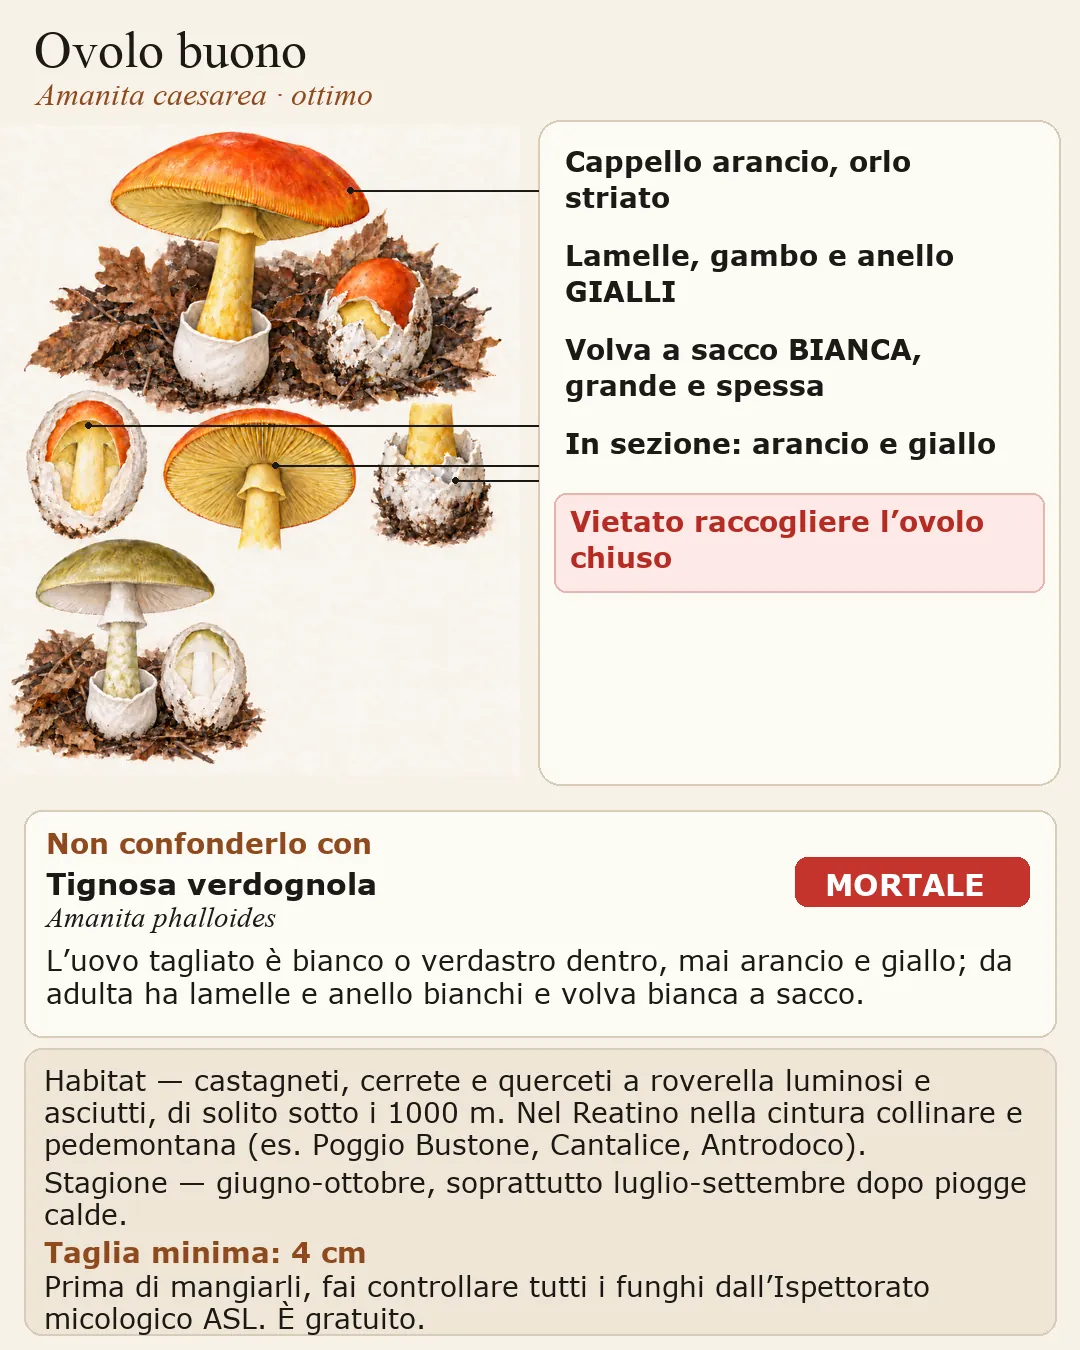
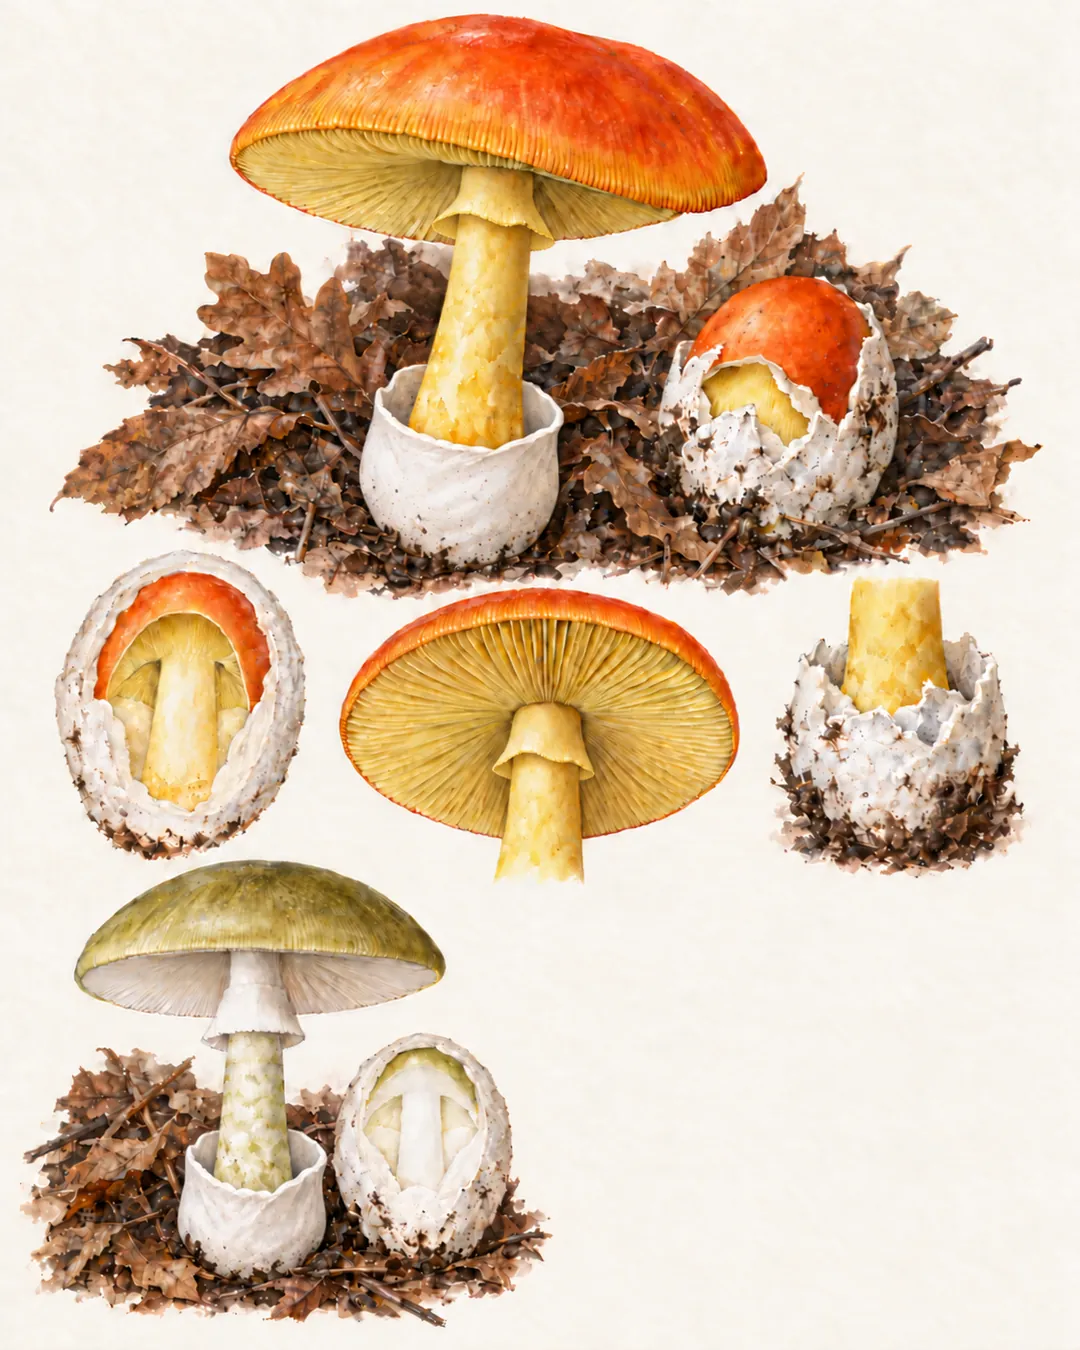
Render caesarea infographic text in HTML

diff --git a/js/speciescard.js b/js/speciescard.js
@@ -12,7 +12,7 @@ const MONTHS = ['G', 'F', 'M', 'A', 'M', 'G', 'L', 'A', 'S', 'O', 'N', 'D'];
 const MONTHS_LONG = ['gennaio', 'febbraio', 'marzo', 'aprile', 'maggio', 'giugno', 'luglio', 'agosto', 'settembre', 'ottobre', 'novembre', 'dicembre'];
 const TOX = { mortale: 'tox-deadly', tossico: 'tox-toxic', 'non commestibile': 'tox-no', commestibile: 'tox-ok' };
 
-let PREP = null, ID = null, MEDIA = null, ASSET = (f) => f, EMBED_3D = true, INFO = {}, WHERE = () => '', TRAITS = {}, FOOTER = '';
+let PREP = null, ID = null, MEDIA = null, ASSET = (f) => f, EMBED_3D = true, INFO = {}, WHERE = () => '', TRAITS = {}, FOOTER = '', INFO_OBSERVER = null;
 
 export function initSpeciesCards({ idData, media, assetUrl, allow3d = true, infographics = {}, whereSection, traits, footer, prep }) {
   PREP = prep || null;
@@ -131,6 +131,52 @@ function checks(id) {
   const c = TRAITS[id]?.check_before_picking || [];
   return c.length ? `<h3>Prima di raccoglierlo controlla</h3><p class="small muted checks-tip">Spunta mentre guardi il fungo che hai in mano.</p><ul class="checks">${c.map((x) => `<li role="checkbox" aria-checked="false" tabindex="0">${esc(x)}</li>`).join('')}</ul>` : '';
 }
+
+function infographicDetails(c) {
+  if (!c) return '';
+  const look = c.lookalike;
+  const labels = (c.labels || []).map((x) => `<li>${esc(x)}</li>`).join('');
+  return `<div class="sp-info-html">
+    <div class="sp-info-heading"><h4>${esc(c.title || '')}</h4><p class="sp-info-latin"><i>${esc(c.latin || '')}</i>${c.quality ? ` · ${esc(c.quality)}` : ''}</p></div>
+    ${labels ? `<ul class="sp-info-mobile-labels">${labels}</ul>` : ''}
+    ${c.warning ? `<p class="sp-info-mobile-warning">${esc(c.warning)}</p>` : ''}
+    ${look ? `<section class="sp-info-look"><h5>${esc(look.heading || 'Non confonderlo con')}</h5><p><span class="tox tox-mortale">${esc(look.toxicity || '')}</span> <b>${esc(look.name || '')}</b> <i>${esc(look.latin || '')}</i></p><p>${esc(look.difference || '')}</p></section>` : ''}
+    <div class="sp-info-facts">
+      ${c.habitat ? `<p><b>Habitat:</b> ${esc(c.habitat)}</p>` : ''}
+      ${c.season ? `<p><b>Stagione:</b> ${esc(c.season)}</p>` : ''}
+      ${c.minimum ? `<p class="sp-info-minimum"><b>${esc(c.minimum)}</b></p>` : ''}
+      ${c.asl ? `<p class="sp-info-asl">${esc(c.asl)}</p>` : ''}
+    </div>
+  </div>`;
+}
+
+function infographicOverlay(c) {
+  if (!c) return '';
+  const labels = (c.labels || []).map((x) => `<li>${esc(x)}</li>`).join('');
+  const targets = JSON.stringify(c.targets || []);
+  return `<svg class="sp-info-leaders" viewBox="0 0 100 100" preserveAspectRatio="none" aria-hidden="true"></svg>
+    <aside class="sp-info-overlay" aria-label="Etichette dell’illustrazione">
+      <h4>${esc(c.title || '')}</h4><p class="sp-info-latin"><i>${esc(c.latin || '')}</i>${c.quality ? ` · ${esc(c.quality)}` : ''}</p>
+      ${labels ? `<ul class="sp-info-labels" data-targets="${esc(targets)}">${labels}</ul>` : ''}
+      ${c.warning ? `<p class="sp-info-warning">${esc(c.warning)}</p>` : ''}
+    </aside>`;
+}
+
+function infographicCaptionText(c) {
+  if (!c) return '';
+  const lines = [
+    c.latin ? `<span><i>${esc(c.latin)}</i>${c.quality ? ` · ${esc(c.quality)}` : ''}</span>` : '',
+    ...(c.labels || []).map((x) => `<span>${esc(x)}</span>`),
+    c.warning ? `<span class="lb-info-warning">${esc(c.warning)}</span>` : '',
+    c.lookalike ? `<span><b>${esc(c.lookalike.heading)}:</b> ${esc(c.lookalike.name)} · <i>${esc(c.lookalike.latin)}</i> · ${esc(c.lookalike.toxicity)}<br>${esc(c.lookalike.difference)}</span>` : '',
+    c.habitat ? `<span><b>Habitat:</b> ${esc(c.habitat)}</span>` : '',
+    c.season ? `<span><b>Stagione:</b> ${esc(c.season)}</span>` : '',
+    c.minimum ? `<span><b>${esc(c.minimum)}</b></span>` : '',
+    c.asl ? `<span>${esc(c.asl)}</span>` : '',
+  ].filter(Boolean);
+  return `<span class="lb-info-copy">${lines.join('')}</span>`;
+}
+
 function whereToLook(id) {
   const w = TRAITS[id]?.where_to_look;
   if (!w) return '';
@@ -142,6 +188,7 @@ export const whereSummary = (id) => TRAITS[id]?.where_to_look?.summary || '';
 export const criticalRule = (id) => (TRAITS[id]?.field_rules || []).find((r) => r.severity === 'critico')?.text || '';
 
 export function renderSpeciesDetail(body, id) {
+  INFO_OBSERVER?.disconnect(); INFO_OBSERVER = null;
   const sp = SPECIES.find((s) => s.id === id);
   if (!sp) { body.innerHTML = '<p class="muted">Specie non trovata.</p>'; return; }
   const d = ID?.species?.[id] || {};
@@ -177,7 +224,7 @@ export function renderSpeciesDetail(body, id) {
     ${kitchen(id)}
     ${whereToLook(id)}
     ${lookalikes(d)}
-    ${INFO[id]?.file ? `<h3>Infografica</h3><button type="button" class="zoomable sp-info" data-info="1" aria-label="Apri l'infografica"><img src="${ASSET(INFO[id].file)}" alt="Infografica di riconoscimento: ${esc(sp.name)}" loading="lazy"><span class="zoom-ic" aria-hidden="true">⤢</span></button>` : ''}
+    ${INFO[id]?.file ? `<h3>Infografica</h3><figure class="sp-info"><div class="sp-info-picture"><button type="button" class="zoomable sp-info-art" data-info="1" aria-label="Apri l’illustrazione dell’infografica"><img src="${ASSET(INFO[id].file)}" alt="Illustrazione senza testo per riconoscere ${esc(sp.name)}" loading="lazy"><span class="zoom-ic" aria-hidden="true">⤢</span></button>${infographicOverlay(INFO[id].content)}</div>${infographicDetails(INFO[id].content)}<figcaption class="small muted">${esc(INFO[id].credit || '')}</figcaption></figure>` : ''}
     <div class="sp-more">
       ${sec('Dove trovarlo nelle zone', WHERE(id))}
       ${sec('Tutti i caratteri', d.cap ? traitsTable(d) + (d.aka?.length ? `<p class="small"><b>Nomi locali:</b> ${esc(d.aka.join(', '))}</p>` : '') : '')}
@@ -201,8 +248,29 @@ export function renderSpeciesDetail(body, id) {
   });
   // foto della specie: visore con zoom e swipe tra tutte le foto
   const gallery = photos.map((p) => ({ src: hd(p), alt: sp.name, caption: captionHtml({ title: esc(d.name || sp.name), text: esc([p.place, p.date].filter(Boolean).join(' · ')), credit: creditText(p) }) }));
+  const infoPicture = body.querySelector('.sp-info-picture');
+  if (infoPicture) {
+    const updateLeaders = () => {
+      const points = INFO[id]?.content?.targets || [];
+      const rows = [...infoPicture.querySelectorAll('.sp-info-labels li')];
+      const rect = infoPicture.getBoundingClientRect();
+      const svg = infoPicture.querySelector('.sp-info-leaders');
+      if (!rect.width || !rect.height || !svg) return;
+      svg.innerHTML = points.slice(0, rows.length).map((p, i) => {
+        const x = Number(p?.[0]), y = Number(p?.[1]);
+        if (!Number.isFinite(x) || !Number.isFinite(y)) return '';
+        const r = rows[i].getBoundingClientRect();
+        const ex = ((r.left - rect.left + 3) / rect.width) * 100;
+        const ey = ((r.top + r.height / 2 - rect.top) / rect.height) * 100;
+        return `<line x1="${x}" y1="${y}" x2="${ex}" y2="${ey}"/><circle cx="${x}" cy="${y}" r="0.28"/>`;
+      }).join('');
+    };
+    requestAnimationFrame(updateLeaders);
+    infoPicture.querySelector('img')?.addEventListener('load', updateLeaders, { once: true });
+    if (window.ResizeObserver) { INFO_OBSERVER = new ResizeObserver(updateLeaders); INFO_OBSERVER.observe(infoPicture); }
+  }
   body.querySelectorAll('[data-photo]').forEach((b) => b.addEventListener('click', () => openLightbox(gallery, +b.dataset.photo)));
-  body.querySelectorAll('[data-info]').forEach((b) => b.addEventListener('click', () => openLightbox([{ src: ASSET(INFO[id].file), alt: `Infografica ${sp.name}`, caption: captionHtml({ title: `Infografica · ${esc(sp.name)}`, credit: esc(INFO[id].credit || '') }) }])));
+  body.querySelectorAll('[data-info]').forEach((b) => b.addEventListener('click', () => openLightbox([{ src: ASSET(INFO[id].file), alt: `Illustrazione dell’infografica ${sp.name}`, caption: captionHtml({ title: `Infografica · ${esc(sp.name)}`, text: infographicCaptionText(INFO[id].content), credit: esc(INFO[id].credit || '') }) }])));
   // sosia: foto grande con pericolosita' e differenza da guardare
   const looks = (d.lookalikes || []).map((l) => {
     const key = (l.latin || '').match(/[A-Z][a-z]+ [a-z]+/)?.[0];

diff --git a/css/style.css b/css/style.css
@@ -429,8 +429,43 @@ li.crit { font-weight: 600; }
 .sp-3d iframe { width: 100%; height: 100%; border: 0; }
 .sp-3d:fullscreen { padding: 0; border-radius: 0; }
 .sp-3d-full { margin-top: 8px; }
-.sp-info { margin: 0; }
-.sp-info img { border-radius: var(--r-md); }
+.sp-info { margin: 0; overflow: hidden; border: 1px solid var(--hair); border-radius: var(--r-lg); background: var(--surface); }
+.sp-info-picture { position: relative; aspect-ratio: 4 / 5; overflow: hidden; background: var(--surface-2); }
+.sp-info-art { position: absolute; inset: 0; z-index: 1; height: 100%; border-radius: 0; overflow: hidden; background: var(--surface-2); }
+.sp-info-art img { width: 100%; height: 100%; border-radius: 0; object-fit: contain; }
+.sp-info-leaders { position: absolute; inset: 0; z-index: 2; width: 100%; height: 100%; overflow: visible; pointer-events: none; }
+.sp-info-leaders line { stroke: var(--text); stroke-opacity: .7; stroke-width: .18; }
+.sp-info-leaders circle { fill: var(--text); }
+.sp-info-overlay { position: absolute; z-index: 3; left: 56%; top: 67%; right: 2%; bottom: 2%; display: grid; align-content: start; gap: 4px; overflow: hidden; padding: 10px 12px; border: 1px solid var(--hair); border-radius: 14px; background: color-mix(in srgb, var(--surface) 94%, transparent); color: var(--text); pointer-events: none; font-size: clamp(12px, 2.4vw, 25px); line-height: 1.18; }
+.sp-info-overlay h4, .sp-info-overlay p { margin: 0; }
+.sp-info-overlay h4 { font-family: var(--font-display); font-size: 1.18em; line-height: 1.05; }
+.sp-info-overlay .sp-info-latin { color: var(--accent); }
+.sp-info-overlay ul { display: grid; gap: 2px; margin: 3px 0 0; padding-left: 1.1em; }
+.sp-info-overlay li::marker { color: var(--accent); }
+.sp-info-overlay .sp-info-warning { color: var(--crit-ink); font-weight: 750; }
+.sp-info-html { display: grid; gap: 10px; padding: 16px; color: var(--text); }
+.sp-info-html h4, .sp-info-html h5, .sp-info-html p { margin: 0; }
+.sp-info-html h4 { font-family: var(--font-display); font-size: 21px; line-height: 1.15; }
+.sp-info-latin { margin-top: -7px !important; color: var(--accent); }
+.sp-info-labels { display: grid; gap: 5px; margin: 0; padding-left: 20px; line-height: 1.4; }
+.sp-info-labels li::marker { color: var(--accent); }
+.sp-info-warning { padding: 10px 12px; border-radius: 12px; background: var(--crit-bg); color: var(--crit-ink); font-weight: 750; }
+.sp-info-look { display: grid; gap: 5px; padding: 12px; border-radius: 14px; background: var(--surface-2); }
+.sp-info-look h5 { color: var(--accent); font-size: 14px; }
+.sp-info-look p { line-height: 1.4; }
+.sp-info-facts { display: grid; gap: 6px; line-height: 1.4; }
+.sp-info-facts p { margin: 0; }
+.sp-info-minimum { color: var(--accent); }
+.sp-info-asl { padding-top: 8px; border-top: 1px solid var(--hair); font-weight: 650; }
+.sp-info figcaption { padding: 0 16px 14px; }
+.lb-cap .lb-info-copy { display: grid; gap: 7px; }
+.lb-cap .lb-info-warning { color: #ffb7a9; font-weight: 750; }
+@media (min-width: 601px) {
+  .sp-info-heading, .sp-info-mobile-labels, .sp-info-mobile-warning { display: none; }
+}
+@media (max-width: 600px) {
+  .sp-info-leaders, .sp-info-overlay { display: none; }
+}
 .sources { padding-left: 18px; }
 .credit { display: block; font-size: 11px; color: var(--muted); line-height: 1.3; }
 .tree-link { color: var(--accent); font-weight: 600; text-decoration: none; background: color-mix(in srgb, var(--accent) 9%, transparent); border-radius: 6px; padding: 2px 5px; margin: -2px -1px; box-decoration-break: clone; -webkit-box-decoration-break: clone; transition: background .15s; }

diff --git a/docs/infografiche/verifica/caesarea.md b/docs/infografiche/verifica/caesarea.md
@@ -43,7 +43,7 @@ Foto usate solo per confronto (non allegate): [Manuela Fiorini](https://www.inat
 
 - Varianti generate: **3**. Edit mirati: **5** — un edit della volva dell’ovolo, tre dell’anello dell’ovolo e un edit della volva della falloide.
 - Esito dell’edit dell’anello: dopo tre tentativi resta ambiguo; la tavola viene consegnata **non approvata** senza ulteriori correzioni.
-- Il prompt GPT Image del brief è stato usato letteralmente per le tre varianti. Lo strumento d’immagine integrato non espone modello/versione, `size`, `quality` o `output_format`; ha restituito tavole 1122×1402, quindi la PNG sorgente 1600×2000 è stata ricampionata in alto. La versione finale è 1080×1350 WebP, 130.714 byte, qualità 80.
-- Font Public Sans, Literata e DejaVu non erano disponibili; per la composizione sono stati usati Verdana e Times New Roman. I testi sono almeno 28 px.
+- Il prompt GPT Image del brief è stato usato letteralmente per le tre varianti. Lo strumento d’immagine integrato non espone modello/versione, `size`, `quality` o `output_format`; ha restituito tavole 1122×1402, quindi la PNG sorgente 1600×2000 è stata ricampionata in alto. La tavola finale senza testo è 1080×1350 WebP, 134.906 byte, qualità 80; tutte le parole sono contenuti HTML nella scheda specie e nel visore, alimentati dal campo `content` in `data/infografiche.json`; i richiami e i punti sono linee e marcatori SVG sovrapposti in HTML/CSS.
+- I testi non sono rasterizzati. L’HTML usa il sistema tipografico e i componenti della scheda dell’app.
 - **Discrepanza istruzioni:** README §6 prescrive la riga ASL “Prima di mangiarli, fai controllare tutti i funghi dall’Ispettorato micologico ASL. È gratuito.”; il brief caesarea §2 riporta “Fai sempre controllare i funghi all’Ispettorato micologico della ASL.” È stata usata la riga fissa del README. Da uniformare nel brief.
 - Nessuna revisione di un micologo è stata eseguita; il credit mantiene l’avvertenza richiesta.
